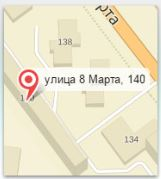
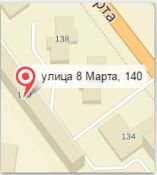
index logged

diff --git a/index.html b/index.html
@@ -54,30 +54,38 @@
                     </form>
                     <form class="login-form-logged" action="">
                         <div class="map">
-
+                            <img src="img/some-house.JPG" alt="">
                         </div>
                         <div class="logged-right">
                             <div class="logged-stats">
-                                <div>
+                                <div class="logged-adress">
                                     <h3>Адрес:</h3><span><a href="">Ул. 8 марта, д.140, кв 125</a></span>
                                 </div>
                                 <div>
                                     <h3>Лицевой счет:</h3><span>10098365</span>
                                 </div>
-                                <div>
-                                    <h3>Задолженость:</h3><span>-560 р.</span>
-                                </div>
                             </div>
                             <div class="logged-accident">
                                 <h3>Плановые отключени, ремонтные работы:</h3>
-                                <div class="accident-type">
-                                    <img class="com-off" src="img/waters.png" alt="">
-                                    <span>ХГВС:</span>
+
+                                <div class="disconnection-item">
+                                    <table>
+                                        <tr>
+                                            <td class="com-off"><img src="img/PCclient/electrick.png" alt=""></td>
+                                            <td>электроэнергия
+                                                <p><b>22.02.2017</b> с <b>10:00</b> до <b>12:00</b></p>
+                                            </td>
+                                        </tr>
+                                    </table>
                                 </div>
-                                <div class="accident-time">
-                                    <span>до 15:00</br> осталось</span>
-                                    <span class="timer">03:41</span>
-                                </div>
+                                <!--<div class="accident-type">-->
+                                    <!--<img class="com-off" src="img/waters.png" alt="">-->
+                                    <!--<span>ХГВС:</span>-->
+                                <!--</div>-->
+                                <!--<div class="accident-time">-->
+                                    <!--<span>до 15:00</br> осталось</span>-->
+                                    <!--<span class="timer">03:41</span>-->
+                                <!--</div>-->
                             </div>
                         </div>
 

diff --git a/css/main.css b/css/main.css
@@ -347,12 +347,16 @@ footer button:hover {
     background-position-x: 100%;
 }
 
+/**** LOGGED *****/
+
+
+
 .login-form-logged {
     padding: 20px 20px 10px;
 }
 
 .login-form-logged .map {
-    width: 30%;
+    width: 35%;
     height: 220px;
     display: inline-block;
 }
@@ -384,6 +388,33 @@ footer button:hover {
     float: right;
 }
 
+.map img {
+    width: 157px;
+    height: 175px;
+}
+
+.logged-stats span {
+    font-size: 22px;
+    letter-spacing: 2px;
+}
+
+.logged-adress a{
+    text-decoration: underline;
+}
+
+
+.disconnection-item table td:last-child {
+    text-align: right;
+}
+
+.disconnection-item table td:first-child{
+    width: 61px;
+    text-align: center;
+}
+
+.disconnection-item p {
+    font-size: 24px;
+}
 
 .com-off {
     background-image: url("../img/PCclient/vicluchenie.png");
@@ -478,6 +509,17 @@ footer button:hover {
         margin-left: -10px;
     }
 
+    .logged-stats span {
+        font-size: 18px;
+        letter-spacing: 1px;
+    }
+
+    .disconnection-item p {
+        font-size: 20px;
+    }
+
+
+
 
 }
 
@@ -508,5 +550,17 @@ footer button:hover {
         line-height: 32px;
         vertical-align: middle;
     }
+
+    
+    .logged-stats span {
+        font-size: 18px;
+        letter-spacing: 1px;
+    }
+
+    .disconnection-item p {
+        font-size: 20px;
+    }
+
+
 
 }

diff --git a/css/index.css b/css/index.css
@@ -1,6 +1,8 @@
 /***********CONTENT*****************/
 
 
+
+
 .content-background {
     /*background-image: url("../img/slider-house2.png");*/
     /*background-repeat: no-repeat;*/
